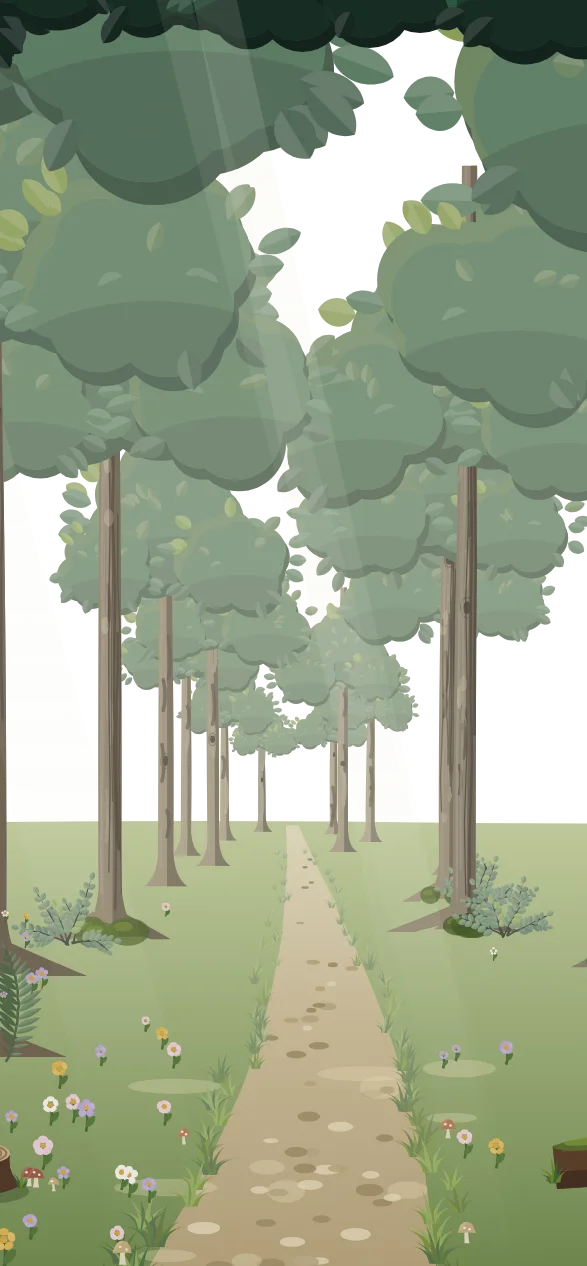
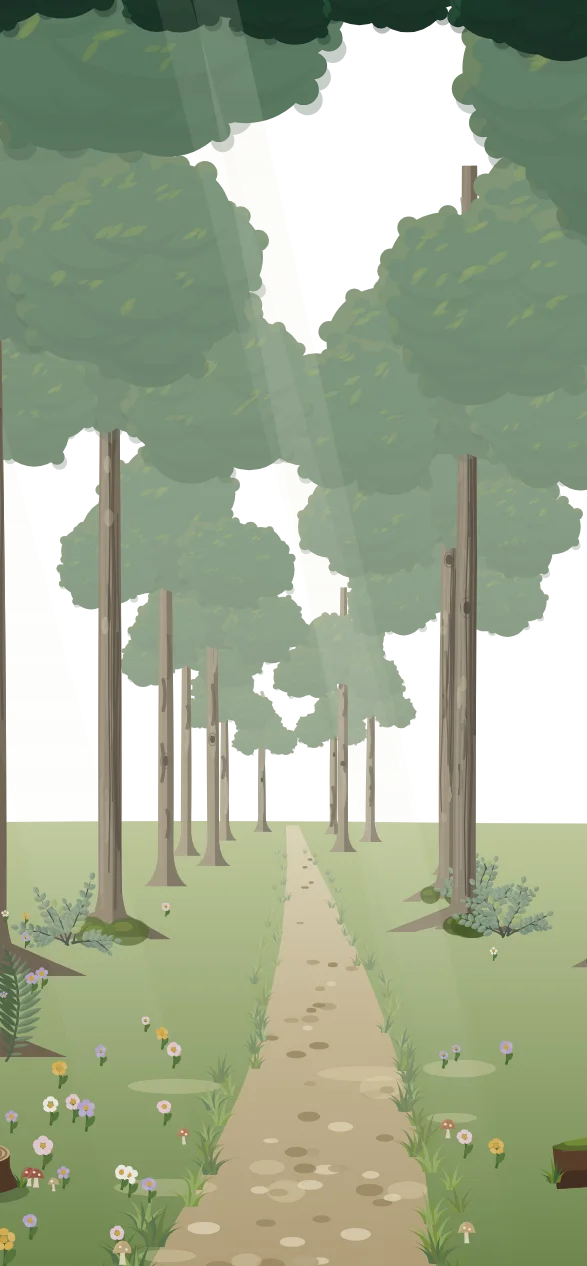
Tidier entrance tree crowns
Claude-Session: https://claude.ai/code/session_01EHtmNVvLo6L45VFzzqfGpi

diff --git a/assets/js/nature.js b/assets/js/nature.js
@@ -217,6 +217,38 @@ export function bushMass(cx, cy, r, tones, n = 26, { cls = '' } = {}) {
   }
   return anim(cls, cx, cy + r, s);
 }
+// 入口の並木の樹冠（ていねいな版）：丸いふくらみを重ね、ふちは小さな葉のふくらみで細かく波打たせる（浮いた葉は置かない）。
+// 光は左上から：ふくらみごとに左上が明るく、下へなめらかに暗くなる。葉の形の明るい面は、ふくらみの中にだけ
+function crownMass(cx, cy, r, tones, g) {
+  const [sh, body, hi, rimHi] = [tones[0], tones[1], tones[2] || light(tones[1], .14), tones[3] || tones[2] || light(tones[1], .2)], id = `cm${gid++}`;
+  const k = r > 9 ? 9 : 7, lobes = [[cx, cy, r * .56]];
+  for (let i = 0; i < k; i++) { const a = (i / k) * 360 + (g() - .5) * 28, d = r * (.4 + g() * .16); lobes.push([cx + Math.sin(a * D) * d, cy - Math.cos(a * D) * d * .8, r * (.3 + g() * .12)]); }
+  // ふちの小さなふくらみ（葉のかたまり）：ふくらみの外周の上側に並べる
+  const bumps = [];
+  for (const [x, y, rr] of lobes) {
+    const n = Math.max(6, Math.round(rr * 1.6));
+    for (let i = 0; i < n; i++) { const a = -150 + 300 * (i + .2 + g() * .6) / n, br = rr * (.16 + g() * .08); bumps.push([x + Math.sin(a * D) * rr * .96, y - Math.cos(a * D) * rr * .96, br]); }
+  }
+  const all = lobes.concat(bumps), circ = (list, dx = 0, dy = 0, k2 = 1) => list.map(([x, y, rr]) => `<circle cx="${n1(x + dx)}" cy="${n1(y + dy)}" r="${n2(rr * k2)}"/>`).join('');
+  track(cx, cy, r * 1.12);
+  const [sg, sd] = lgrad([[0, sh, 0], [.55, sh, .35], [1, sh, .85]]);
+  let s = `<defs><clipPath id="${id}">${circ(all)}</clipPath>${sd}</defs>`;
+  // 地面側に落ちる、樹冠の影（少し右下にずらした同じ形）
+  s += `<g fill="${dark(sh, .08)}" opacity=".3">${circ(bumps.filter(([, y]) => y > cy), r * .02, r * .05)}</g>`;
+  s += `<g clip-path="url(#${id})"><rect x="${n1(cx - r * 1.3)}" y="${n1(cy - r * 1.3)}" width="${n1(r * 2.6)}" height="${n1(r * 2.6)}" fill="${hi}"/>`;
+  // ふくらみごとの陰：右下にずらした形で覆い、左上のふちだけ明るく残す
+  s += `<g fill="${body}">${circ(lobes, r * .07, r * .1, .97)}${circ(bumps, r * .05, r * .07)}</g>`;
+  // ふくらみどうしの境目：上のふくらみの下のふちに沿って、少し暗い面（奥行き）
+  s += `<g fill="${mixC(body, sh, .45)}" opacity=".5">${lobes.filter(([, y]) => y > cy - r * .5).map(([x, y, rr]) => `<path d="M${n1(x - rr * .95)} ${n1(y + rr * .1)}A${n2(rr)} ${n2(rr)} 0 0 0 ${n1(x + rr * .95)} ${n1(y + rr * .1)}A${n2(rr)} ${n2(rr * .7)} 0 0 1 ${n1(x - rr * .95)} ${n1(y + rr * .1)}Z"/>`).join('')}</g>`;
+  // ふくらみの境目に、葉の形の明るい面（上向きのふくらみの上だけ、向きをそろえて）
+  for (const [x, y, rr] of lobes) for (let i = 0; i < 3; i++) {
+    const a = -60 + g() * 50, lx = x - rr * (.35 - g() * .5), ly = y - rr * (.45 + g() * .25), L = rr * (.28 + g() * .12);
+    s += `<path d="M0 0Q${n1(L * .5)} ${n1(-L * .3)} ${n1(L)} 0Q${n1(L * .5)} ${n1(L * .3)} 0 0Z" transform="translate(${n1(lx)} ${n1(ly)}) rotate(${n1(a + 180)})" fill="${rimHi}" opacity=".45"/>`;
+  }
+  // 下へなめらかに暗く
+  s += `<rect x="${n1(cx - r * 1.3)}" y="${n1(cy - r * .1)}" width="${n1(r * 2.6)}" height="${n1(r * 1.3)}" fill="url(#${sg})"/></g>`;
+  return s;
+}
 // シダ：羽片は根元と先が短く、真ん中が長い
 export function fern(x, y, len, a, c, { cls = 'sway', n = 16 } = {}) {
   const bend = R(2.2, 4.5) * (rnd() < .5 ? -1 : 1), step = len / n, pts = [[x, y, a]];
@@ -1080,13 +1112,14 @@ function sceneEntrance(W) {
     const tones = [P.dark, P.mid, P.leaf, P.fresh].map((c) => mixC(c, hazeC, z * .7));
     mid += tree(x, yb, H, { trunkC, tones: null, w, lean: side * R(0, 1.5) * t, branches: 0 });
     const top = yb - H, cy = top + H * .24, cr = H * .2;
-    if (cy + cr > -4) { mid += bushMass(x, cy, cr, tones, 26) + bushMass(x - side * cr * .7, cy + cr * .45, cr * .7, tones, 18) + bushMass(x + side * cr * .6, cy + cr * .5, cr * .6, tones, 16); }
+    // 樹冠は crownMass で描く（前の bushMass は乱数の呼び出しだけ残して、並木の配置を変えない）
+    if (cy + cr > -4) { bushMass(x, cy, cr, tones, 26); bushMass(x - side * cr * .7, cy + cr * .45, cr * .7, tones, 18); bushMass(x + side * cr * .6, cy + cr * .5, cr * .6, tones, 16); const gC = hrng(x * 3.7 + cy); mid += crownMass(x, cy, cr, tones, gC) + crownMass(x - side * cr * .7, cy + cr * .45, cr * .7, tones, gC) + crownMass(x + side * cr * .6, cy + cr * .5, cr * .6, tones, gC); }
     if (t > .2) mid += shrub(x + side * w * 1.5, yb + .5, 3 + t * 9, [P.dark, P.mid, P.leaf, P.fresh].map((c) => mixC(c, hazeC, z * .7)), { leaf: .6 + t * 1.2, n: t > .6 ? 5 : 4 });
     if (t > .45 && rnd() < .6) mid += fern(x - side * w * 1.4, yb + .5, 4 + t * 9, -side * R(20, 50), mixC(P.leaf, hazeC, z * .5), { cls: '' });
   }
   mid += flowers(-5, cx - pw * .6, hz + 4, 104, 30, ['#fffaf2', '#f6d7e0', '#f2c14e', '#c7b3e6'], { scale: (y) => .35 + (y - hz) / deep * 1.6 });
   mid += flowers(cx + pw * .6, mw, hz + 4, 104, 30, ['#fffaf2', '#f6d7e0', '#f2c14e', '#c7b3e6'], { scale: (y) => .35 + (y - hz) / deep * 1.6 });
-  for (let x = -6; x < mw + 6; x += R(8, 13)) mid += bushMass(x, R(-7, -2), R(8, 12), [P.deep, P.dark, P.mid, P.leaf], 22);
+  for (let x = -6; x < mw + 6; x += R(8, 13)) { const y = R(-7, -2), rr = R(8, 12); bushMass(x, y, rr, [P.deep, P.dark, P.mid, P.leaf], 22); mid += crownMass(x, y, rr, [P.deep, P.dark, P.mid, P.leaf], hrng(x * 5.1 + 3)); }
   mid += beams(cx - 70, cx + 20, 7, '#fffbe0', { opacity: .12, slant: [16, 30] });
   // 小道のわき：切り株ときのこ、倒木（手前ほど大きく。案内人の道の上には置かない）
   mid += stump(cx - pw * 1.75, 93.5, 2.2, '#7a5638') + mushroom(cx - pw * 1.75 + 4, 93.8, 1, '#b8604a') + mushroom(cx - pw * 1.75 + 5.4, 94.1, .7, '#d4b884');
